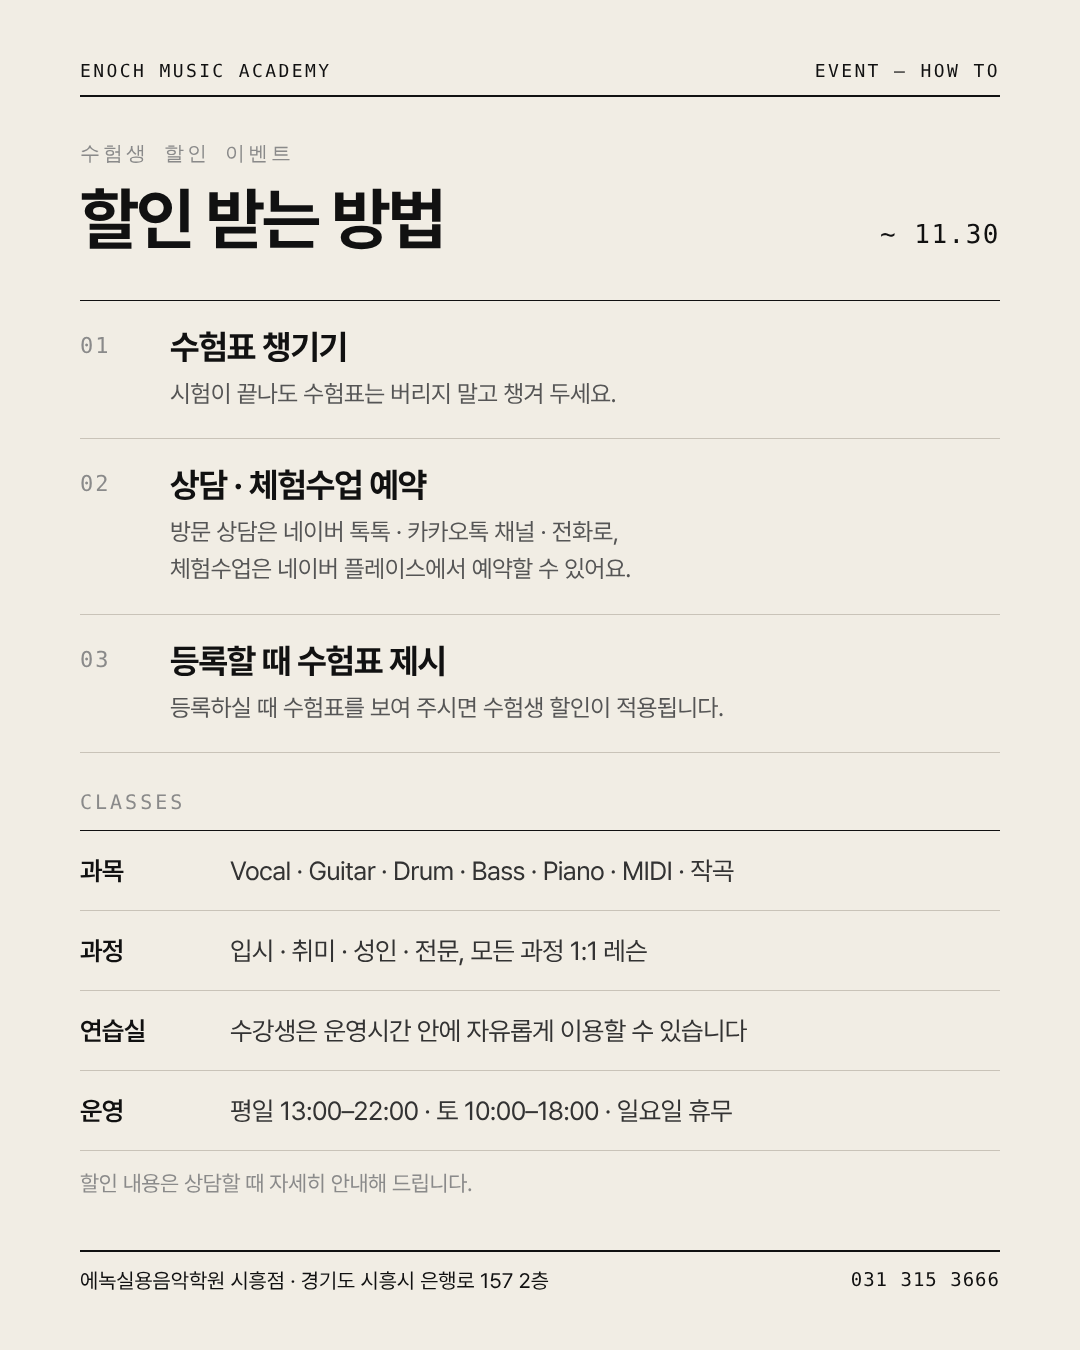
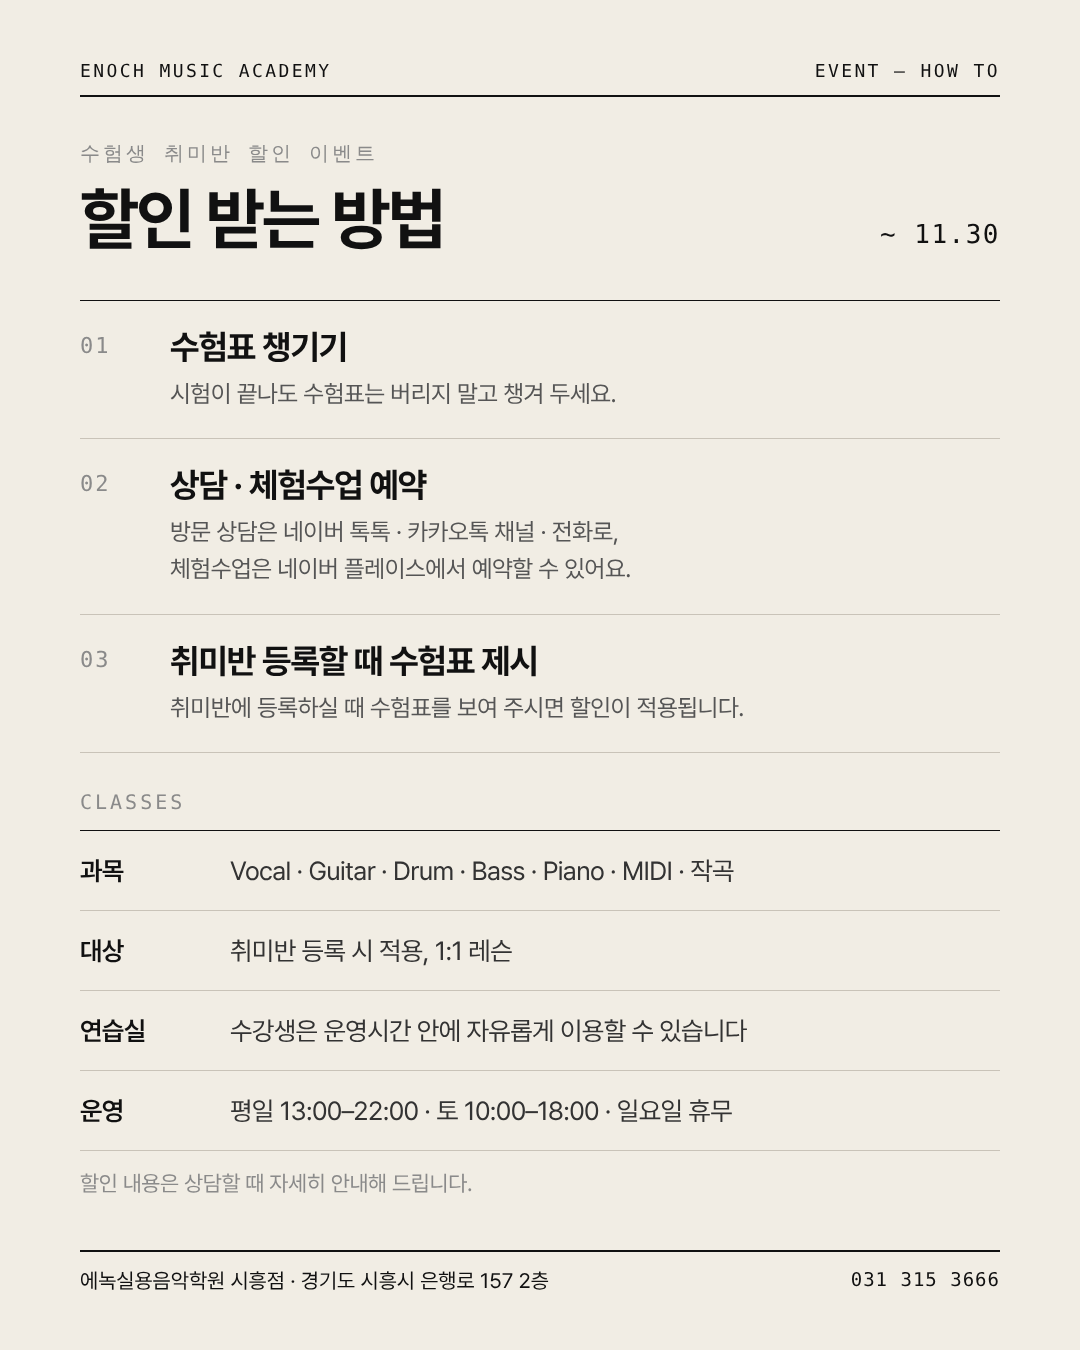
수험생 할인 포스터: 취미반만 할인으로 변경
Claude-Session: https://claude.ai/code/session_01HGbZvgMeYrbU7mY8bwfjyb

diff --git a/output/포스터_수능할인/poster.html b/output/포스터_수능할인/poster.html
@@ -1,7 +1,7 @@
 <!doctype html><html lang="ko"><head><meta charset="utf-8"><title>수험생 할인 이벤트 포스터</title>
 <!-- 수험생 할인 이벤트 2장 (1080×1350) — 2026-11-19 원장님
      01: 사진 메인 + 짧은 문구 (배경 images/공간/무대로고_01.jpg)
-     02: 아이보리, 할인 받는 방법 + 수업 안내 (금액은 쓰지 않음, 등록 시 수험표 제시, 기한 11/30)
+     02: 아이보리, 취미반만 할인 (2026-11-19), 할인 받는 방법 + 수업 안내 (금액은 쓰지 않음, 등록 시 수험표 제시, 기한 11/30)
      CHROMIUM_PATH=... node poster.mjs → poster_01.png, poster_02.png -->
 <style>
 @font-face{font-family:P;src:url(../../templates/fonts/Pretendard-Light.woff2);font-weight:300}
@@ -50,23 +50,23 @@ section>div{position:absolute;left:80px;right:80px}
 <div class="hd mono"><span>ENOCH MUSIC ACADEMY</span><span>EVENT</span></div>
 <div class="lab mono">FOR STUDENTS</div>
 <div class="ttl">수험표,<br>버리지 마세요</div>
-<div class="sub">수험생 할인 이벤트<span class="due">~ 11.30</span></div>
+<div class="sub">수험생 취미반 할인 이벤트<span class="due">~ 11.30</span></div>
 <div class="ft mono"><span>에녹실용음악학원 시흥점</span><span>031 315 3666</span></div>
 </section>
 
 <section id="p2" data-name="poster_02">
 <div class="hd mono"><span>ENOCH MUSIC ACADEMY</span><span>EVENT — HOW TO</span></div>
-<div class="lab mono">수험생 할인 이벤트</div>
+<div class="lab mono">수험생 취미반 할인 이벤트</div>
 <div class="ttl">할인 받는 방법<span class="due">~ 11.30</span></div>
 <div class="steps">
  <div class="st"><i>01</i><div><b>수험표 챙기기</b><span>시험이 끝나도 수험표는 버리지 말고 챙겨 두세요.</span></div></div>
  <div class="st"><i>02</i><div><b>상담 · 체험수업 예약</b><span>방문 상담은 네이버 톡톡 · 카카오톡 채널 · 전화로,<br>체험수업은 네이버 플레이스에서 예약할 수 있어요.</span></div></div>
- <div class="st"><i>03</i><div><b>등록할 때 수험표 제시</b><span>등록하실 때 수험표를 보여 주시면 수험생 할인이 적용됩니다.</span></div></div>
+ <div class="st"><i>03</i><div><b>취미반 등록할 때 수험표 제시</b><span>취미반에 등록하실 때 수험표를 보여 주시면 할인이 적용됩니다.</span></div></div>
 </div>
 <div class="lab2 mono">CLASSES</div>
 <div class="cls">
  <div class="row"><b>과목</b><span>Vocal · Guitar · Drum · Bass · Piano · MIDI · 작곡</span></div>
- <div class="row"><b>과정</b><span>입시 · 취미 · 성인 · 전문, 모든 과정 1:1 레슨</span></div>
+ <div class="row"><b>대상</b><span>취미반 등록 시 적용, 1:1 레슨</span></div>
  <div class="row"><b>연습실</b><span>수강생은 운영시간 안에 자유롭게 이용할 수 있습니다</span></div>
  <div class="row"><b>운영</b><span>평일 13:00–22:00 · 토 10:00–18:00 · 일요일 휴무</span></div>
 </div>
